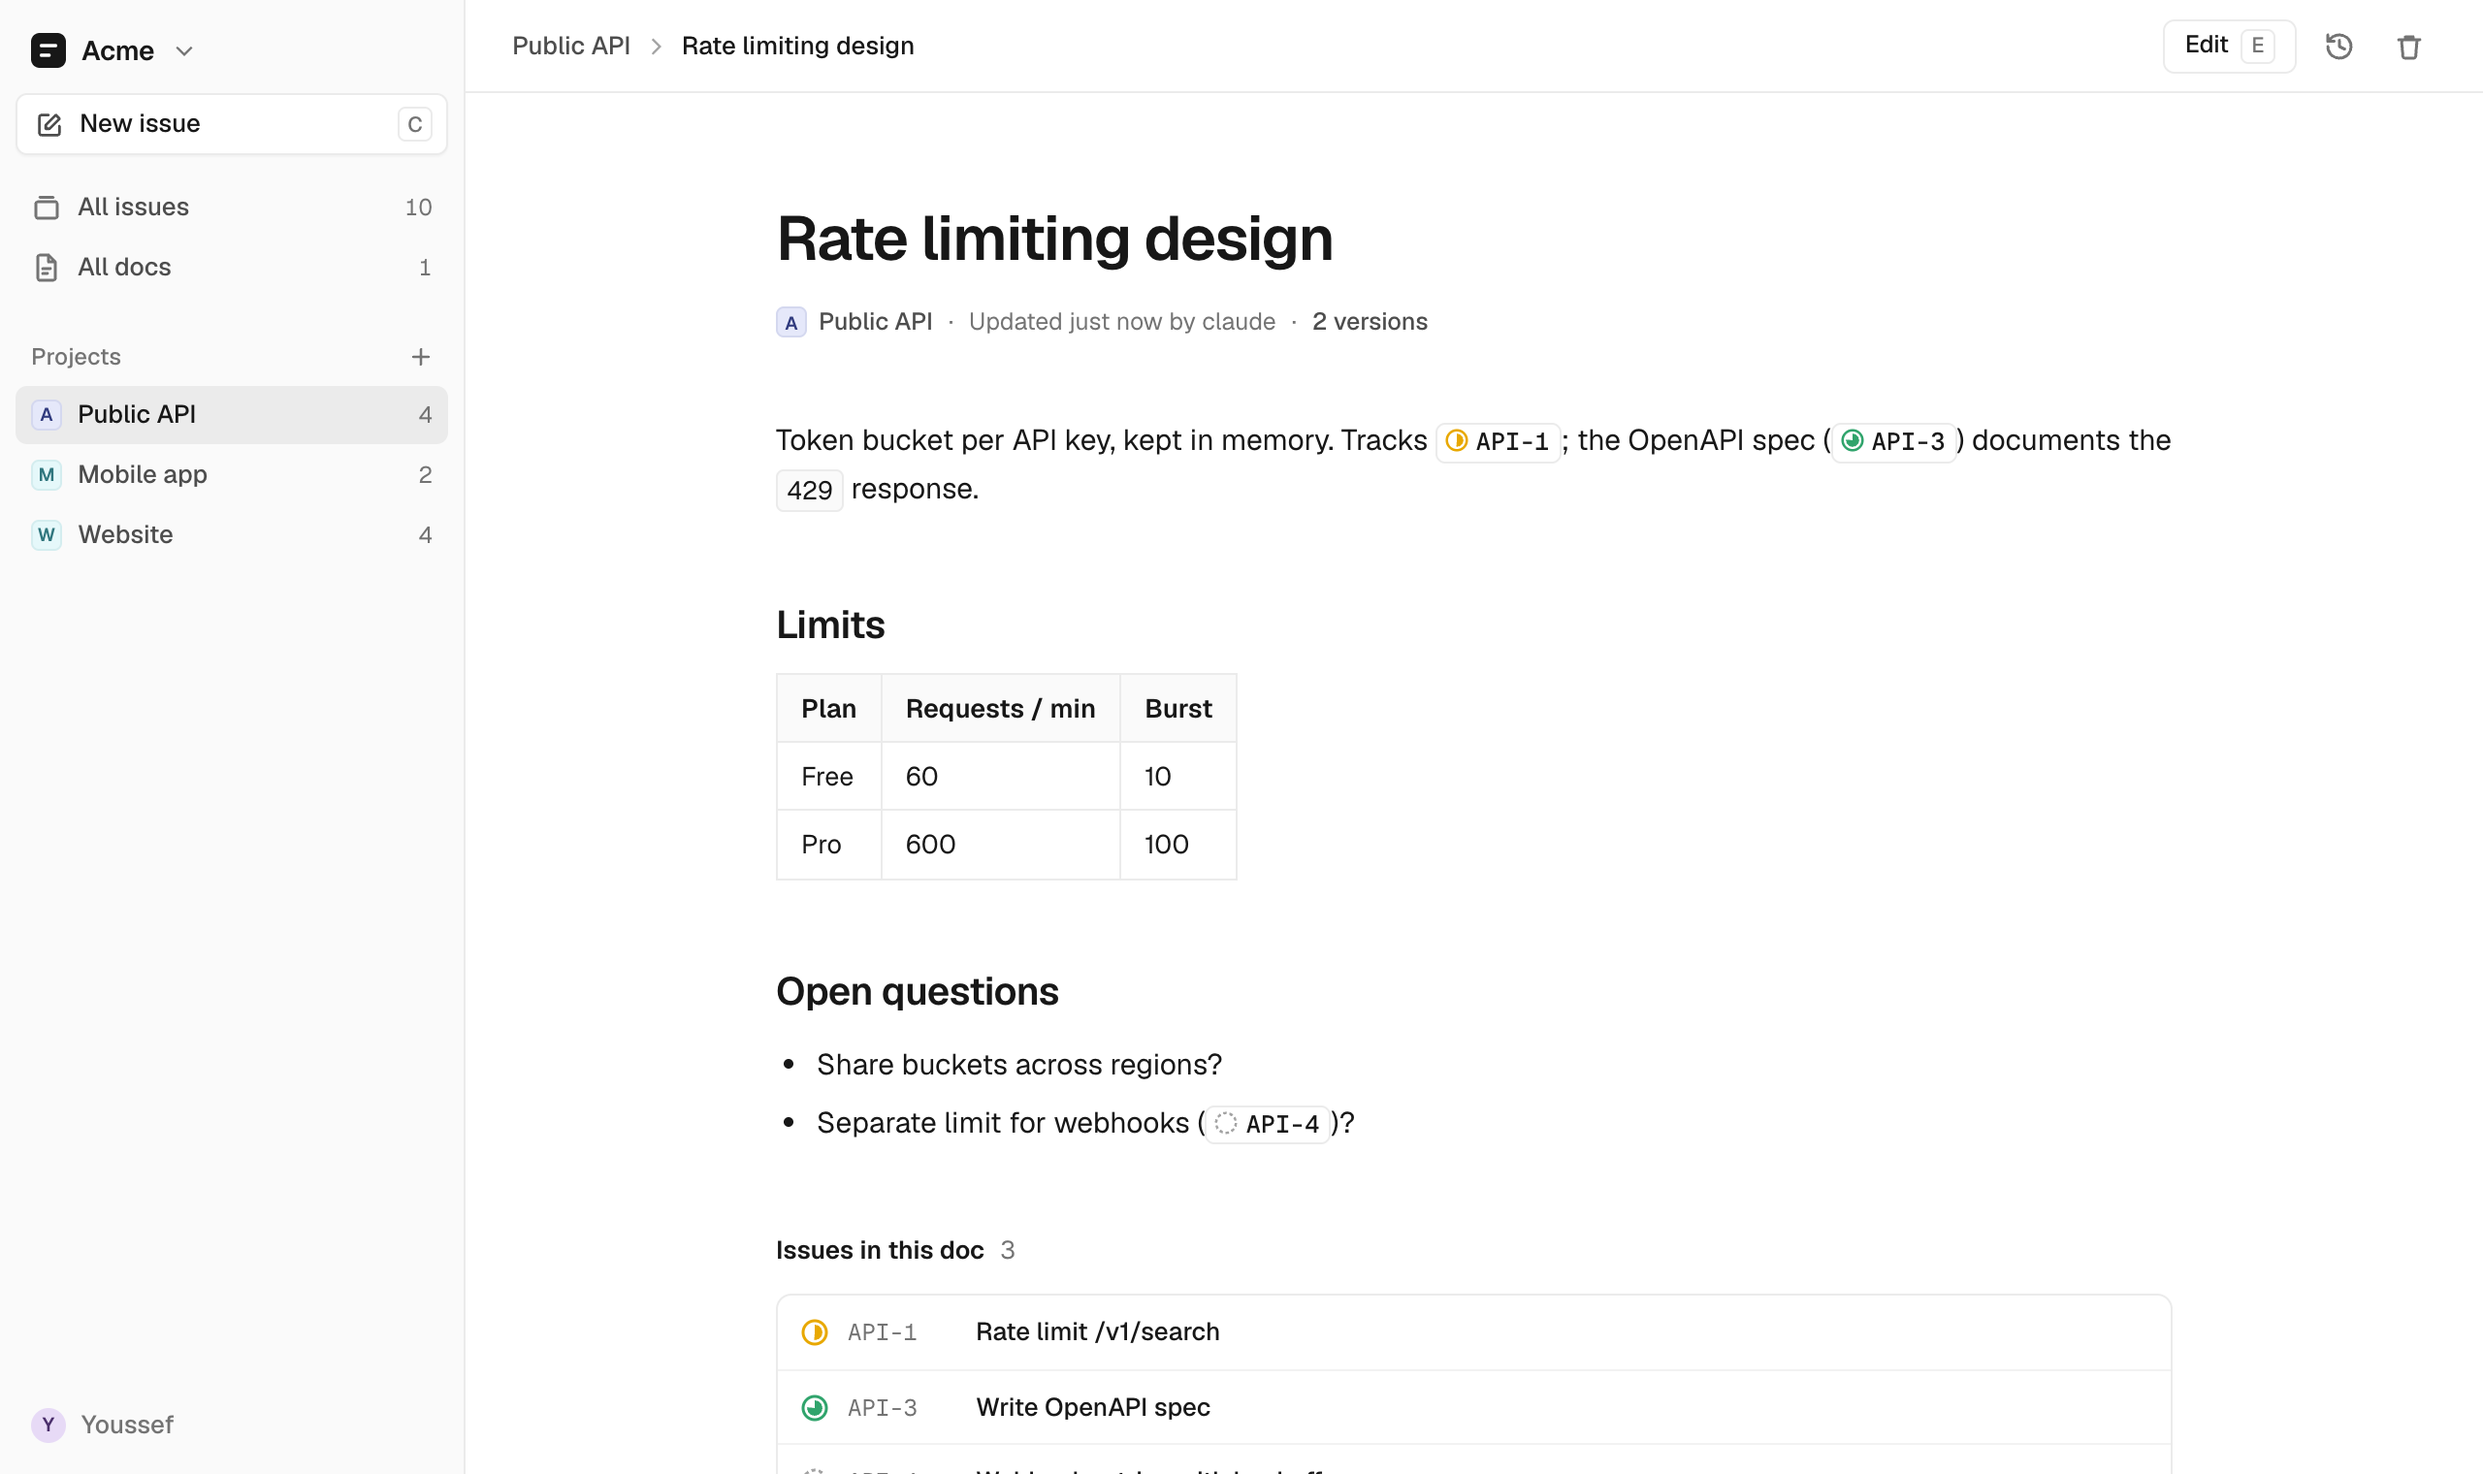
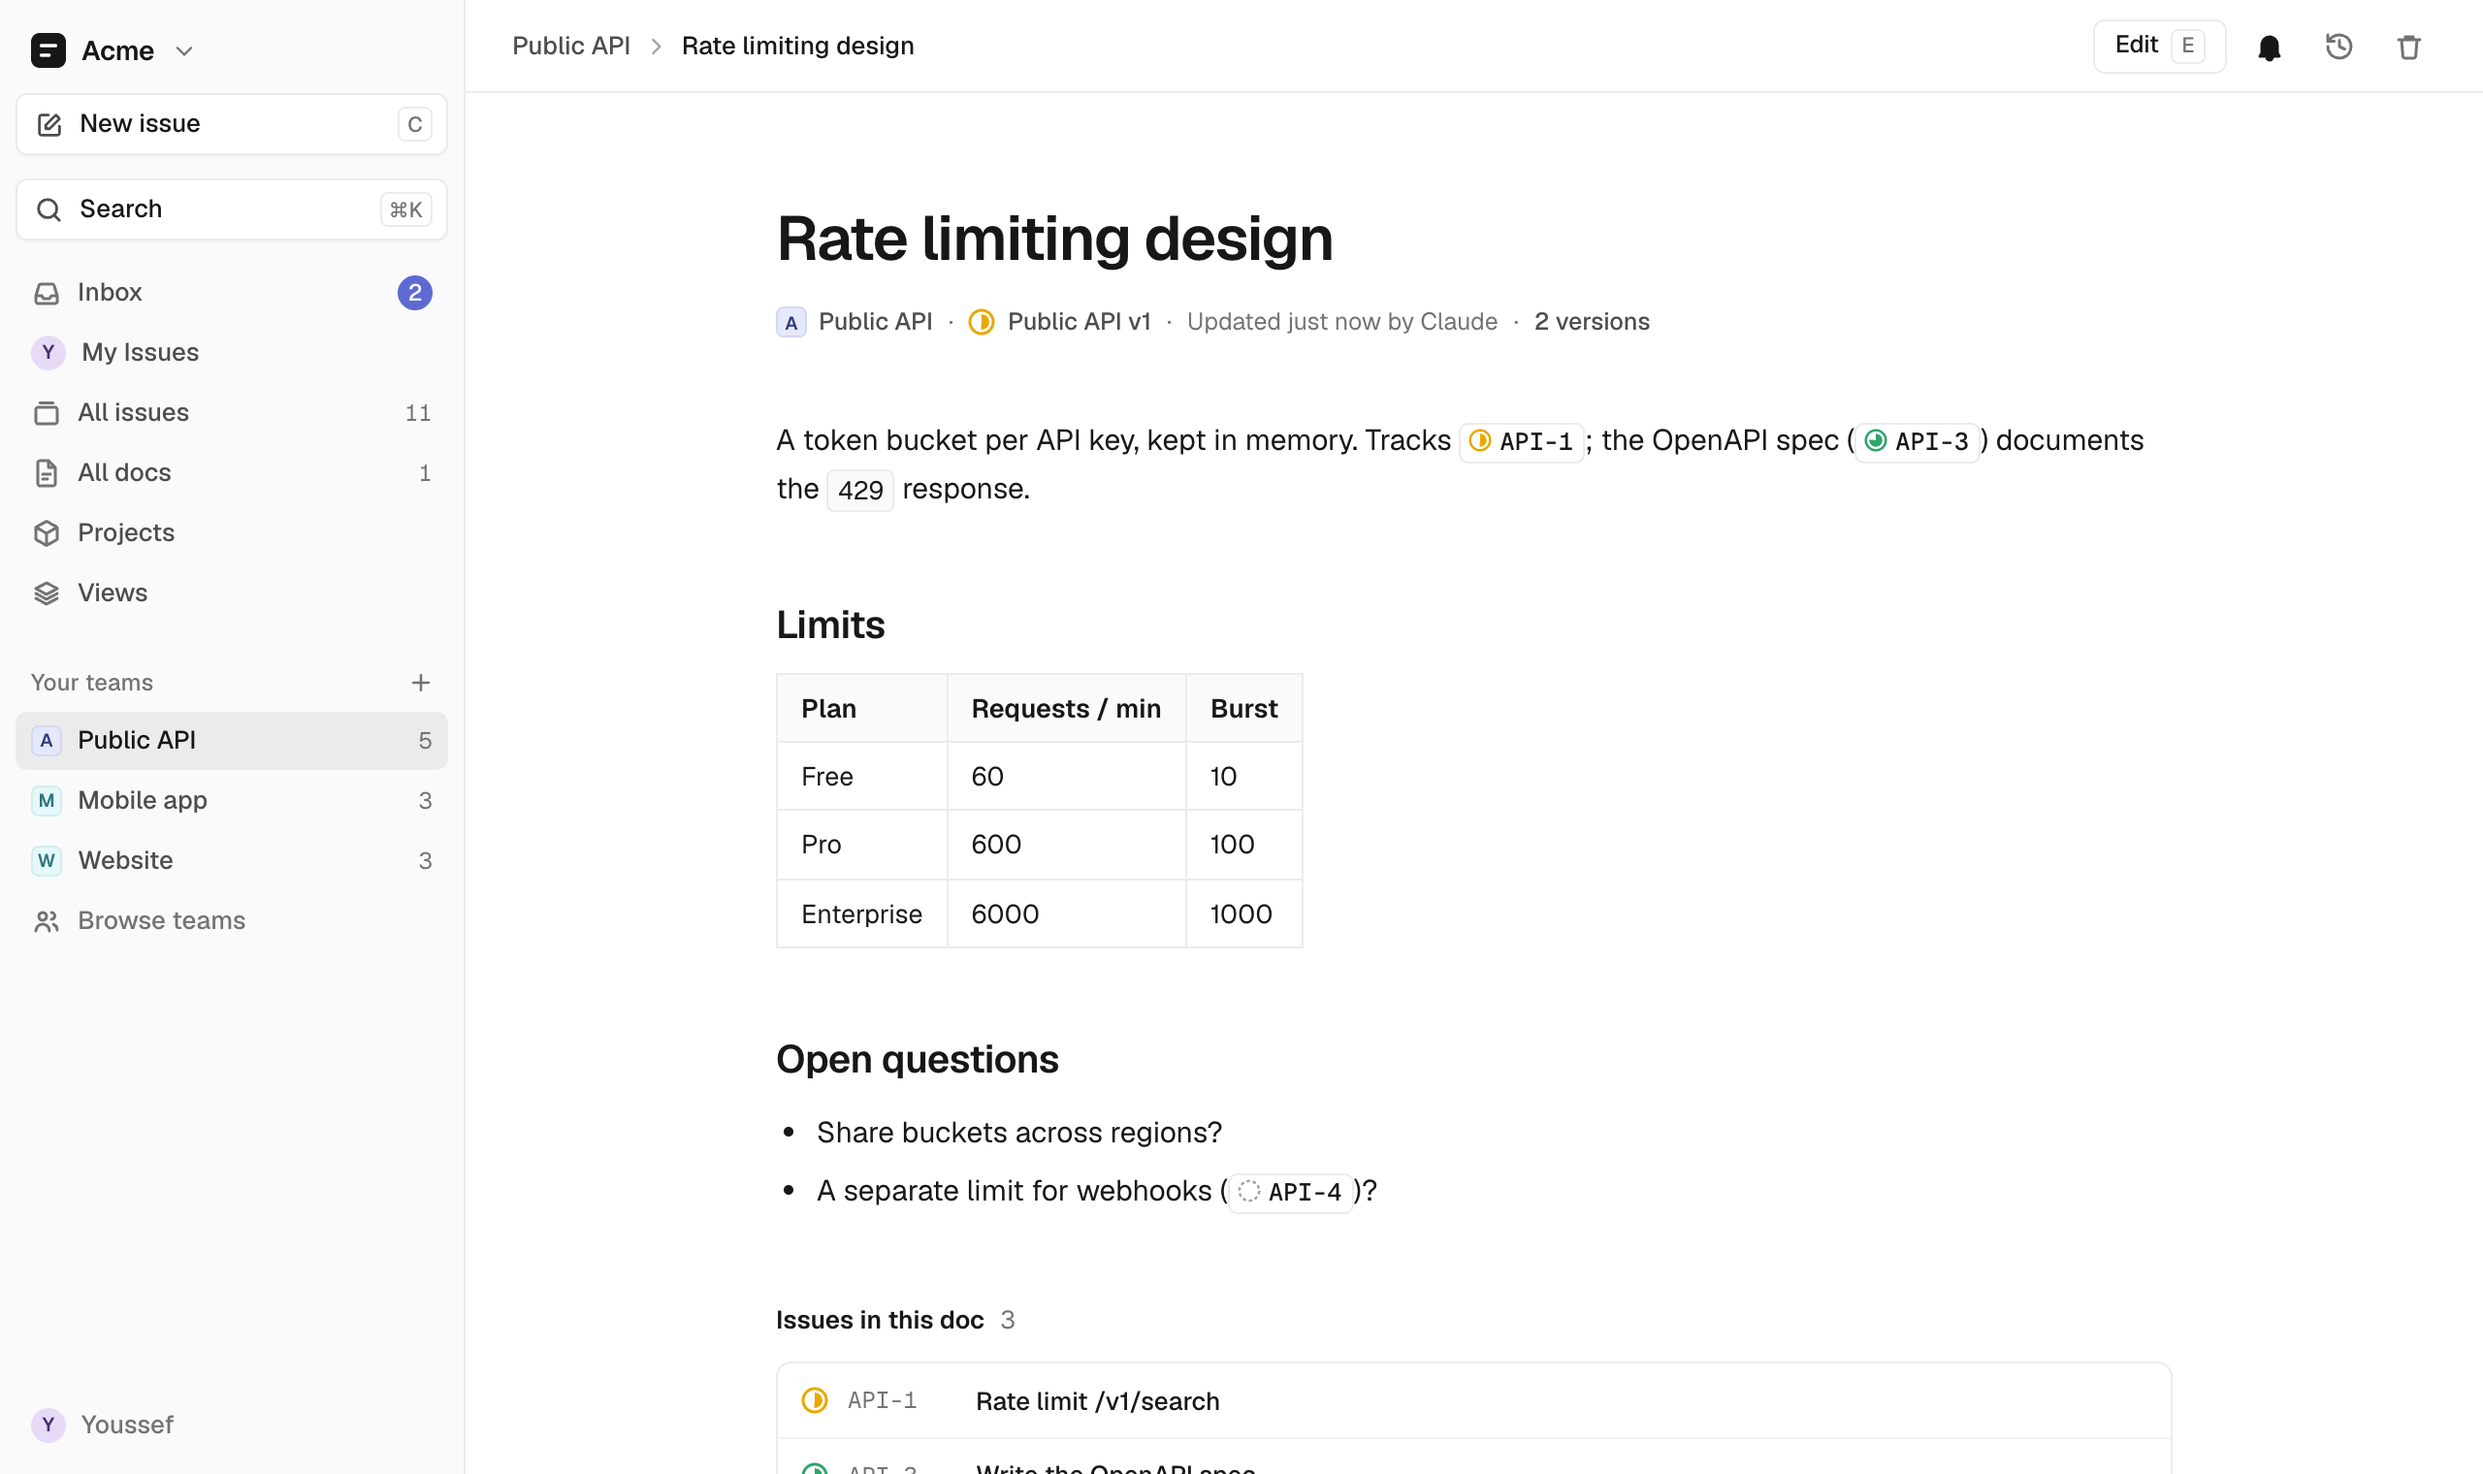
Refresh README screenshots and features for projects, cycles, views, GitHub and private teams
New list, issue and doc screenshots from a fresh demo workspace, plus board and project ones.
The feature list, MCP tool list (35 tools) and dependency count match the code again.

Claude-Session: https://claude.ai/code/session_01TKsWXmEUq89D16FqtA9aDe

diff --git a/README.md b/README.md
@@ -23,16 +23,21 @@ One container. One SQLite file. Your people and your agents, each with their own
 
 Agents are good at doing work and bad at keeping track of it. Docket gives them a place to do that: they pick up issues, post progress, write the spec and move things to review, while you watch it happen in the browser.
 
-- **Built for agents and humans together.** 27 MCP tools for issues, comments, docs and files (screenshots and logs too). Every agent gets its own token and name, and claims issues as a delegate, the way Linear's agents do. What an agent does shows up in your UI right away over WebSocket.
-- **Linear's model, tiny code.** Workspaces with members, admins and guests, public and private teams, list and board views, priorities, labels, sub-issues, blockers, keyboard shortcuts (`C`, `/`, `⌘↵`).
-- **Docs next to your issues.** Markdown docs with version history. Write `API-1` and it links to the issue, with its status shown inline.
-- **Yours.** Self-hosted, a SQLite file and a folder of uploads, five runtime dependencies. Back it up live with `./backup.sh`.
+- **Built for agents and humans together.** 35 MCP tools for issues, projects, comments, docs, notifications and files (screenshots and logs too). Every agent gets its own token and name, and claims issues as a delegate, the way Linear's agents do. What an agent does shows up in your UI right away over WebSocket, and in its history.
+- **Linear's model, tiny code.** Workspaces with members, admins and guests, public and private teams with their own workflows, projects with milestones, cycles, estimates, list and board views you can save, an inbox with @mentions, and a command menu (`⌘K`) with keyboard shortcuts for everything.
+- **Docs next to your issues.** Rich-text docs stored as Markdown, with version history. Write `API-1` and it links to the issue, with its status shown inline.
+- **Connected.** Pull requests and commits move issues along (GitHub), and signed webhooks tell your own services what changed.
+- **Yours.** Self-hosted, a SQLite file and a folder of uploads, eleven runtime dependencies. Back it up live with `./backup.sh`.
 - **Works everywhere.** Install it as a PWA on iPhone, iPad or Mac. It works offline for the issues and docs you've already opened.
 
 <table>
   <tr>
-    <td><img src=".github/screenshots/issue.png" alt="An issue with a comment from Claude"></td>
-    <td><img src=".github/screenshots/doc.png" alt="A markdown doc linking issues"></td>
+    <td><img src=".github/screenshots/issue.png" alt="An issue Claude is working on as a delegate, with sub-issues and its history"></td>
+    <td><img src=".github/screenshots/doc.png" alt="A doc Claude revised, linking the issues it covers"></td>
+  </tr>
+  <tr>
+    <td><img src=".github/screenshots/board.png" alt="The board view with estimates, due dates and labels"></td>
+    <td><img src=".github/screenshots/project.png" alt="A project with milestones, progress, docs and issues"></td>
   </tr>
 </table>
 
@@ -155,7 +160,14 @@ You can also use an optional config file at `$XDG_CONFIG_HOME/docket/config` or 
 <details>
 <summary><b>MCP tools</b></summary>
 
-`update_workspace`, `list_members`, `list_teams`, `create_team`, `update_team`, `list_issues`, `list_labels`, `get_issue`, `create_issue`, `update_issue`, `claim_issue`, `comment_issue`, `list_documents`, `get_document`, `create_document`, `update_document`, `comment_document`, `delete_document`, `update_comment`, `delete_comment`. A key works in one workspace, so the tools act there.
+- **Workspace and teams:** `update_workspace`, `list_members`, `list_teams`, `create_team`, `update_team`, `list_labels`, `list_cycles`, `list_templates`
+- **Issues:** `list_issues`, `get_issue`, `create_issue`, `update_issue`, `claim_issue`, `comment_issue`, `react`, `subscribe`
+- **Projects:** `list_projects`, `get_project`, `create_project`, `update_project`, `create_milestone`, `update_milestone`
+- **Docs:** `list_documents`, `get_document`, `create_document`, `update_document`, `comment_document`, `delete_document`
+- **Comments:** `update_comment`, `delete_comment`, `resolve_thread`
+- **Inbox and files:** `list_notifications`, `mark_notifications_read`, `attach_file`, `get_attachment`
+
+A key works in one workspace, so the tools act there.
 
 The full REST API and data model are in [SPEC.md](SPEC.md).
 
